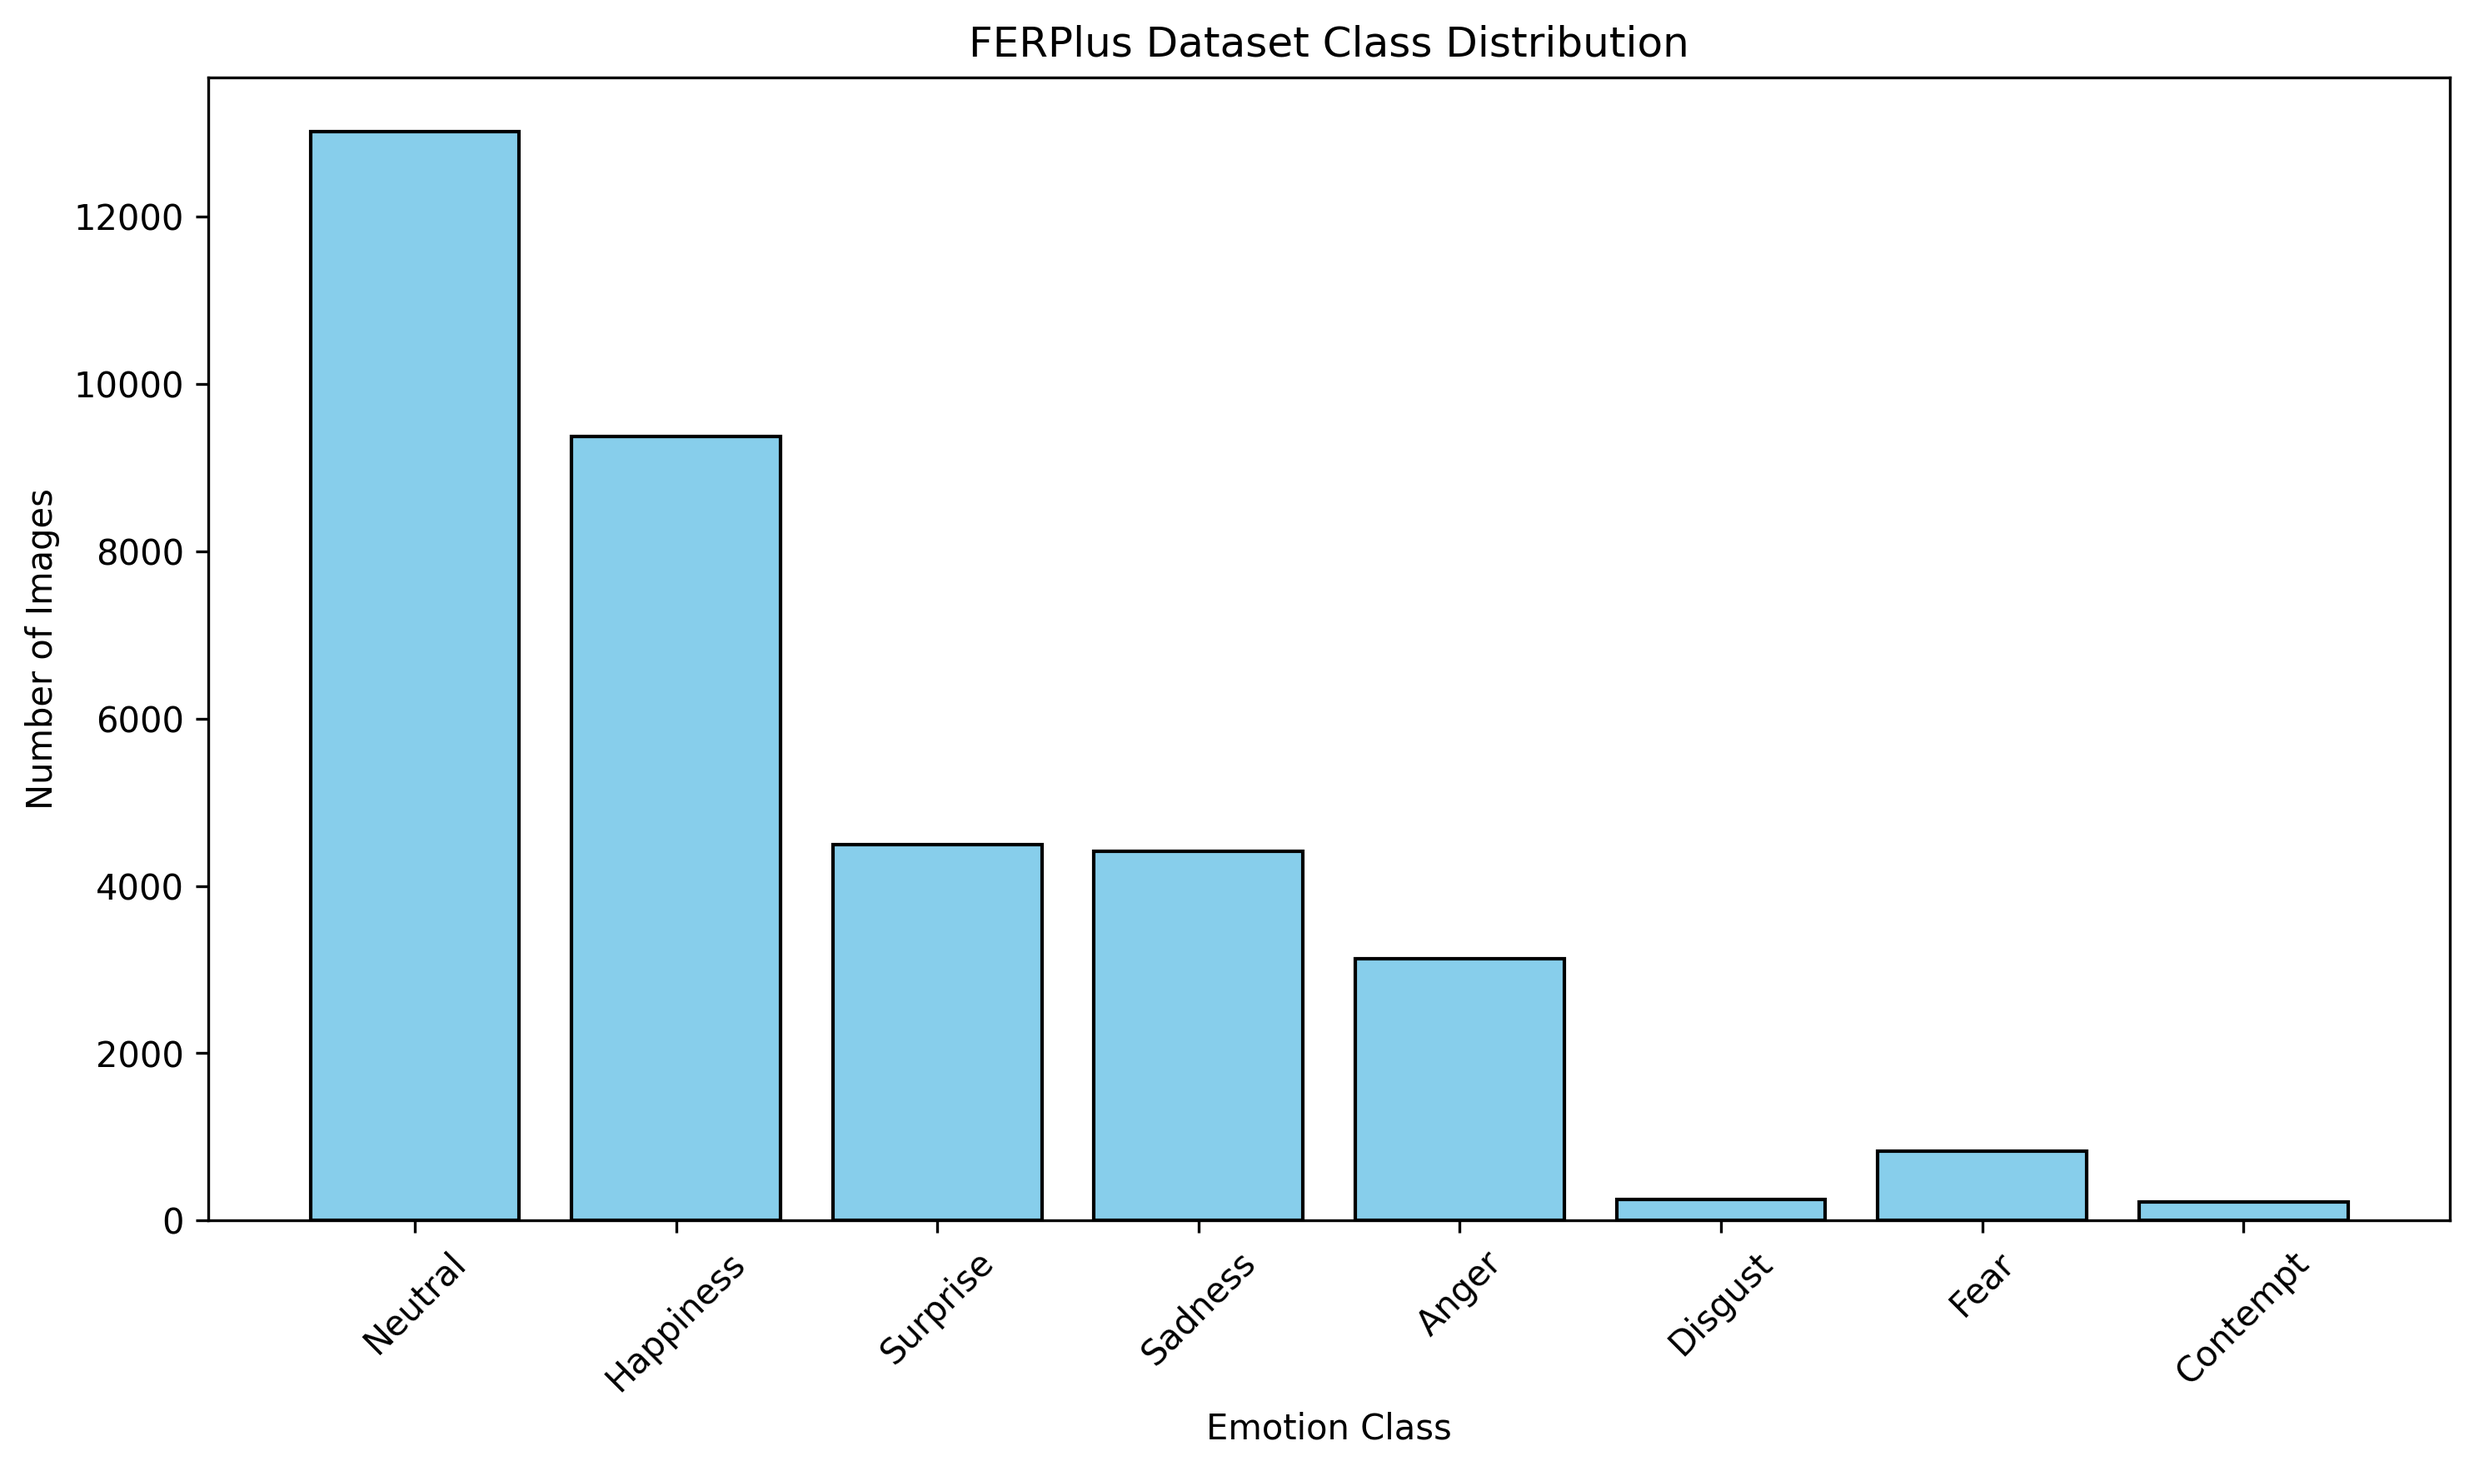
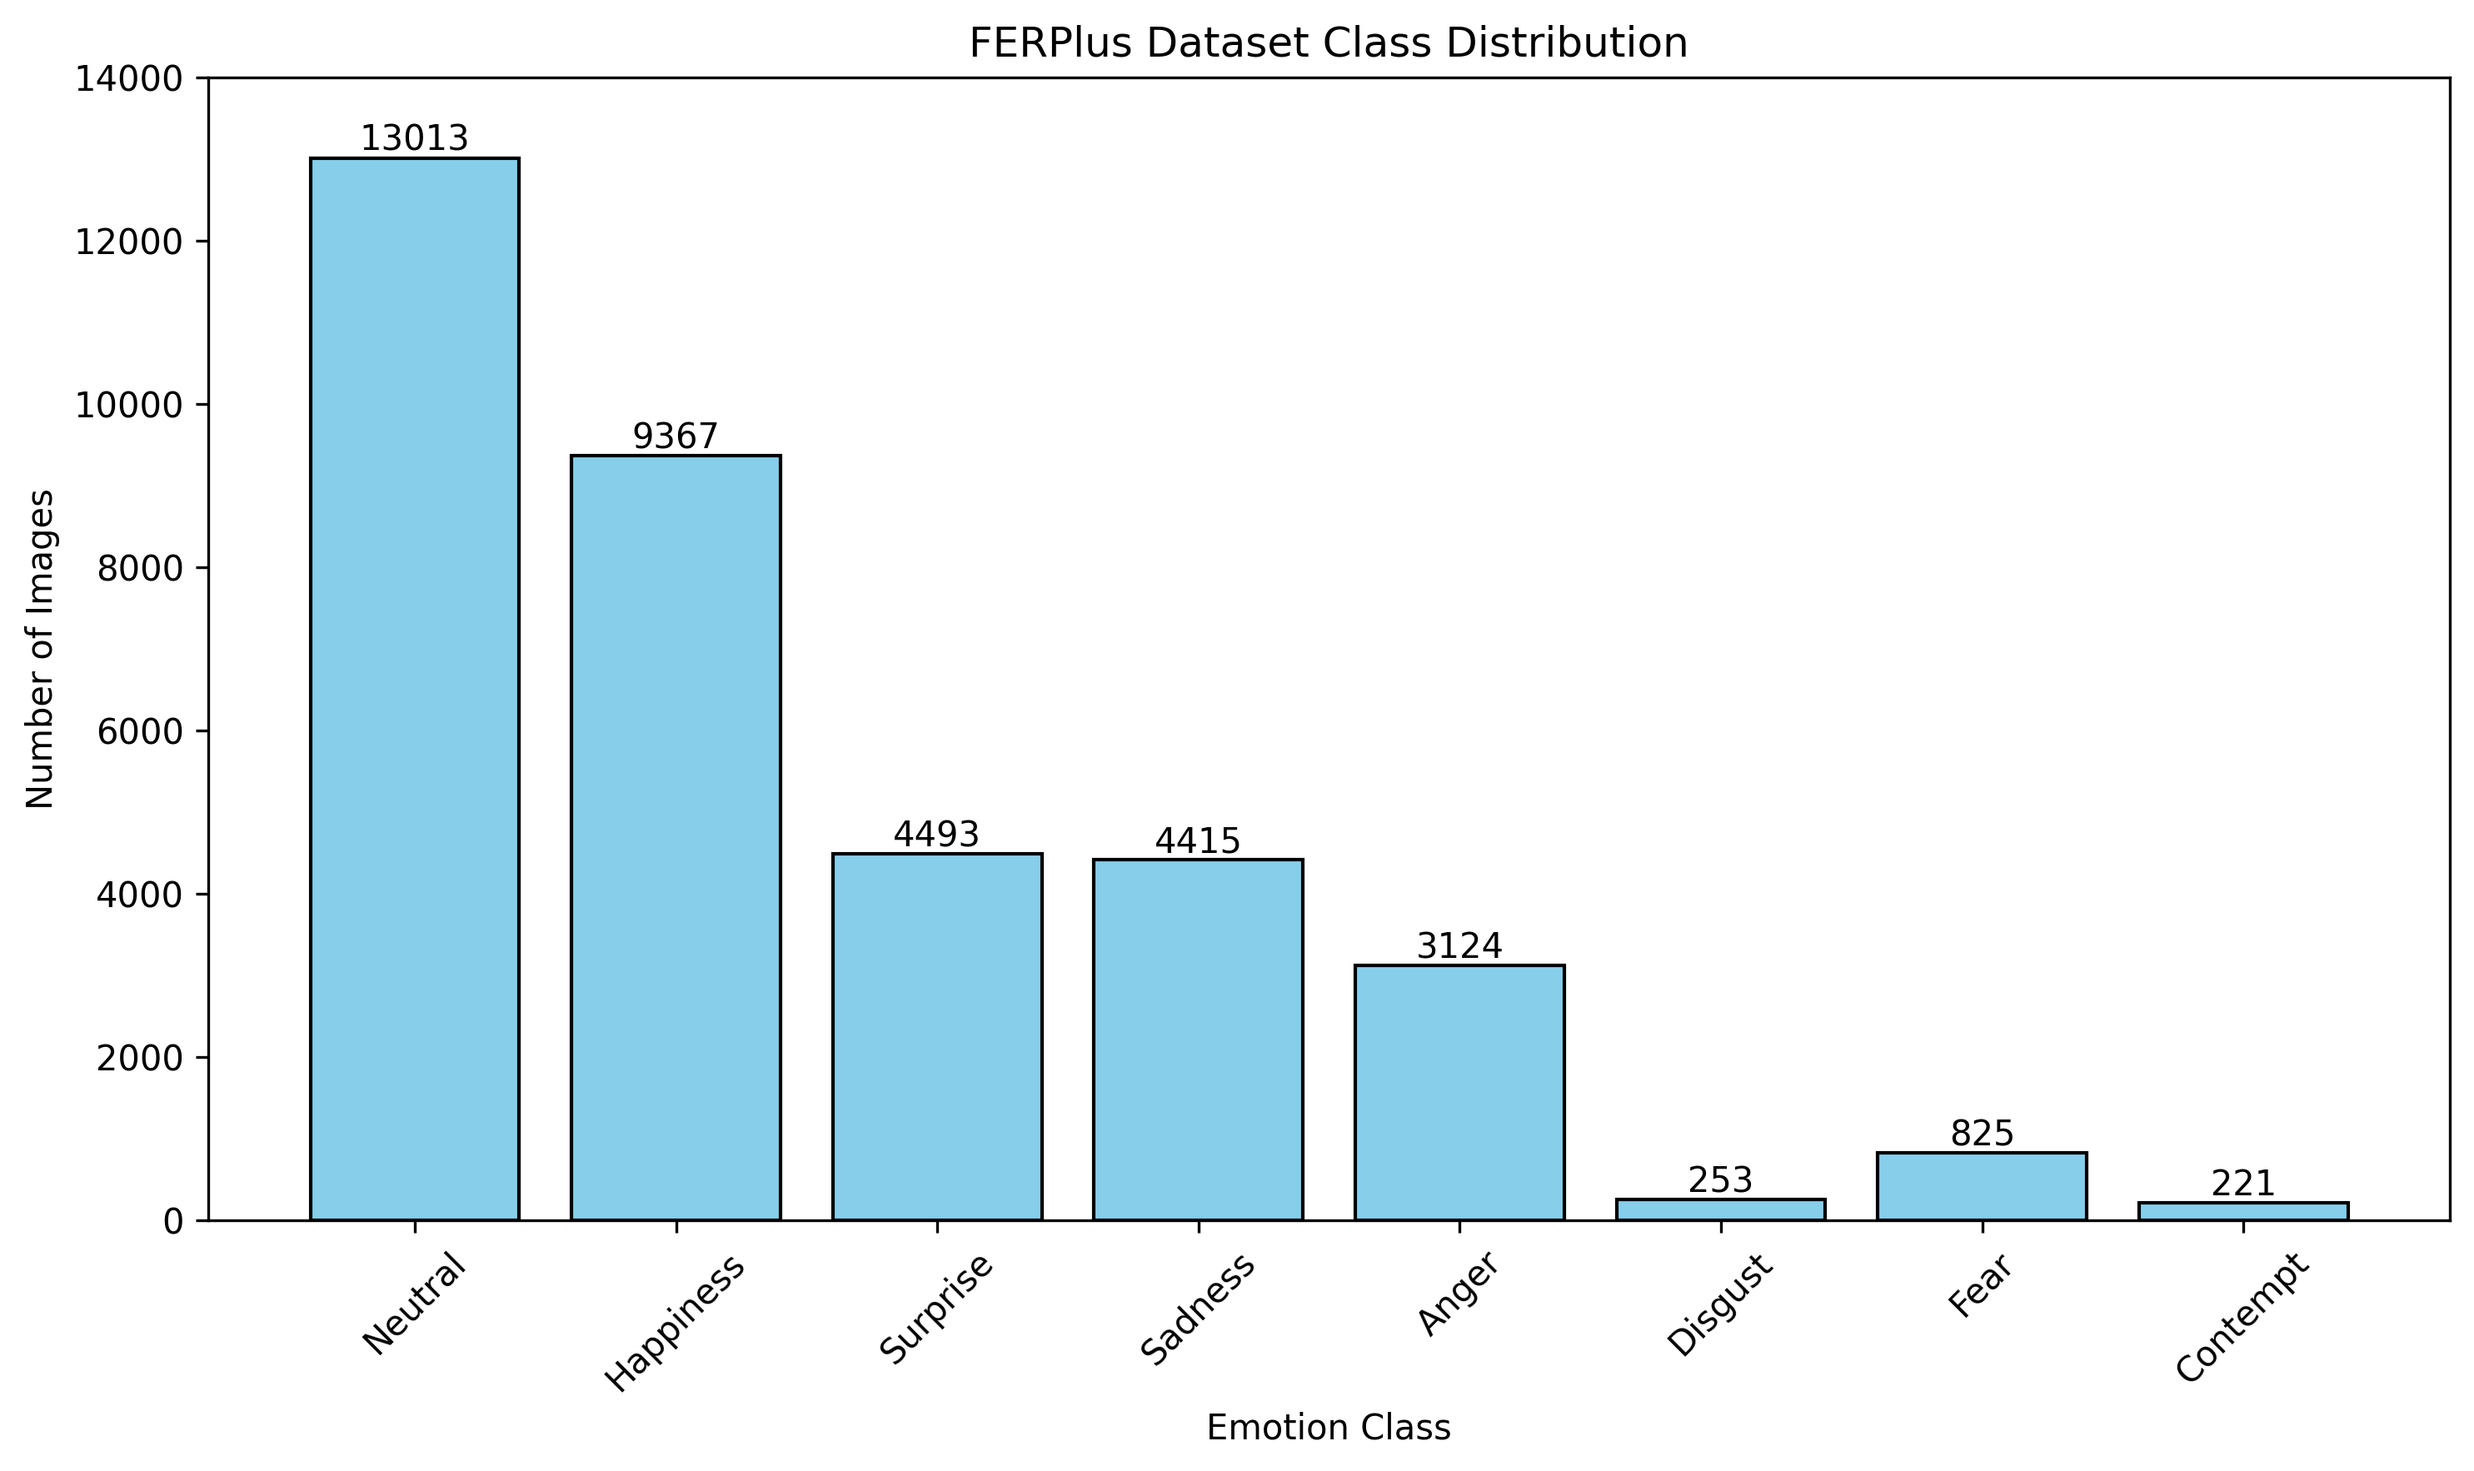
fix y axis while ploting graphs

diff --git a/plot_graph.py b/plot_graph.py
@@ -3,31 +3,33 @@ import matplotlib.pyplot as plt
 
 def plot_distribution(data_path, output_path):
     """
-    Plot and save the class distribution.
+    Plot and save the class distribution with fixed y-axis range.
     
     Args:
         data_path (str): Path to the preprocessed label file
         output_path (str): Path to save the plot
     """
-    # Read data
     data = pd.read_csv(data_path)
     class_counts = data['label'].value_counts().sort_index()
     
-    # Define class names
     class_names = [
         "Neutral", "Happiness", "Surprise", "Sadness", "Anger", "Disgust", "Fear", "Contempt"
     ]
     
-    # Create plot
     plt.figure(figsize=(10, 6))
     plt.bar(class_names, class_counts.values, color='skyblue', edgecolor='black')
     
-    # Customize plot
     plt.xlabel("Emotion Class")
     plt.ylabel("Number of Images")
     plt.title("FERPlus Dataset Class Distribution")
     plt.xticks(rotation=45)
-    plt.tight_layout()
     
-    # Save and display plot
+    # Set fixed y-axis range based on the maximum count across both methods
+    plt.ylim(0, 14000)  # Adjusted based on provided data
+    
+    # Add value labels on top of each bar
+    for i, v in enumerate(class_counts.values):
+        plt.text(i, v, str(v), ha='center', va='bottom')
+    
+    plt.tight_layout()
     plt.savefig(output_path, dpi=300, bbox_inches='tight')

diff --git a/main.py b/main.py
@@ -54,7 +54,8 @@ def main():
     args = parse_arguments()
     
     # Define paths
-    data_path = Path('path/to/fer2013new.csv')  ### Todo: Change this path
+    # data_path = Path('path/to/fer2013new.csv')  ### Todo: Change this path
+    data_path = Path('/Users/kimhaeseong/FER_dataset/FERPlus_dataset/fer2013new.csv')
     output_path = Path(f'result/FERPlus_Label_modified_{args.method}.csv')
     plot_path = Path('img')
     
